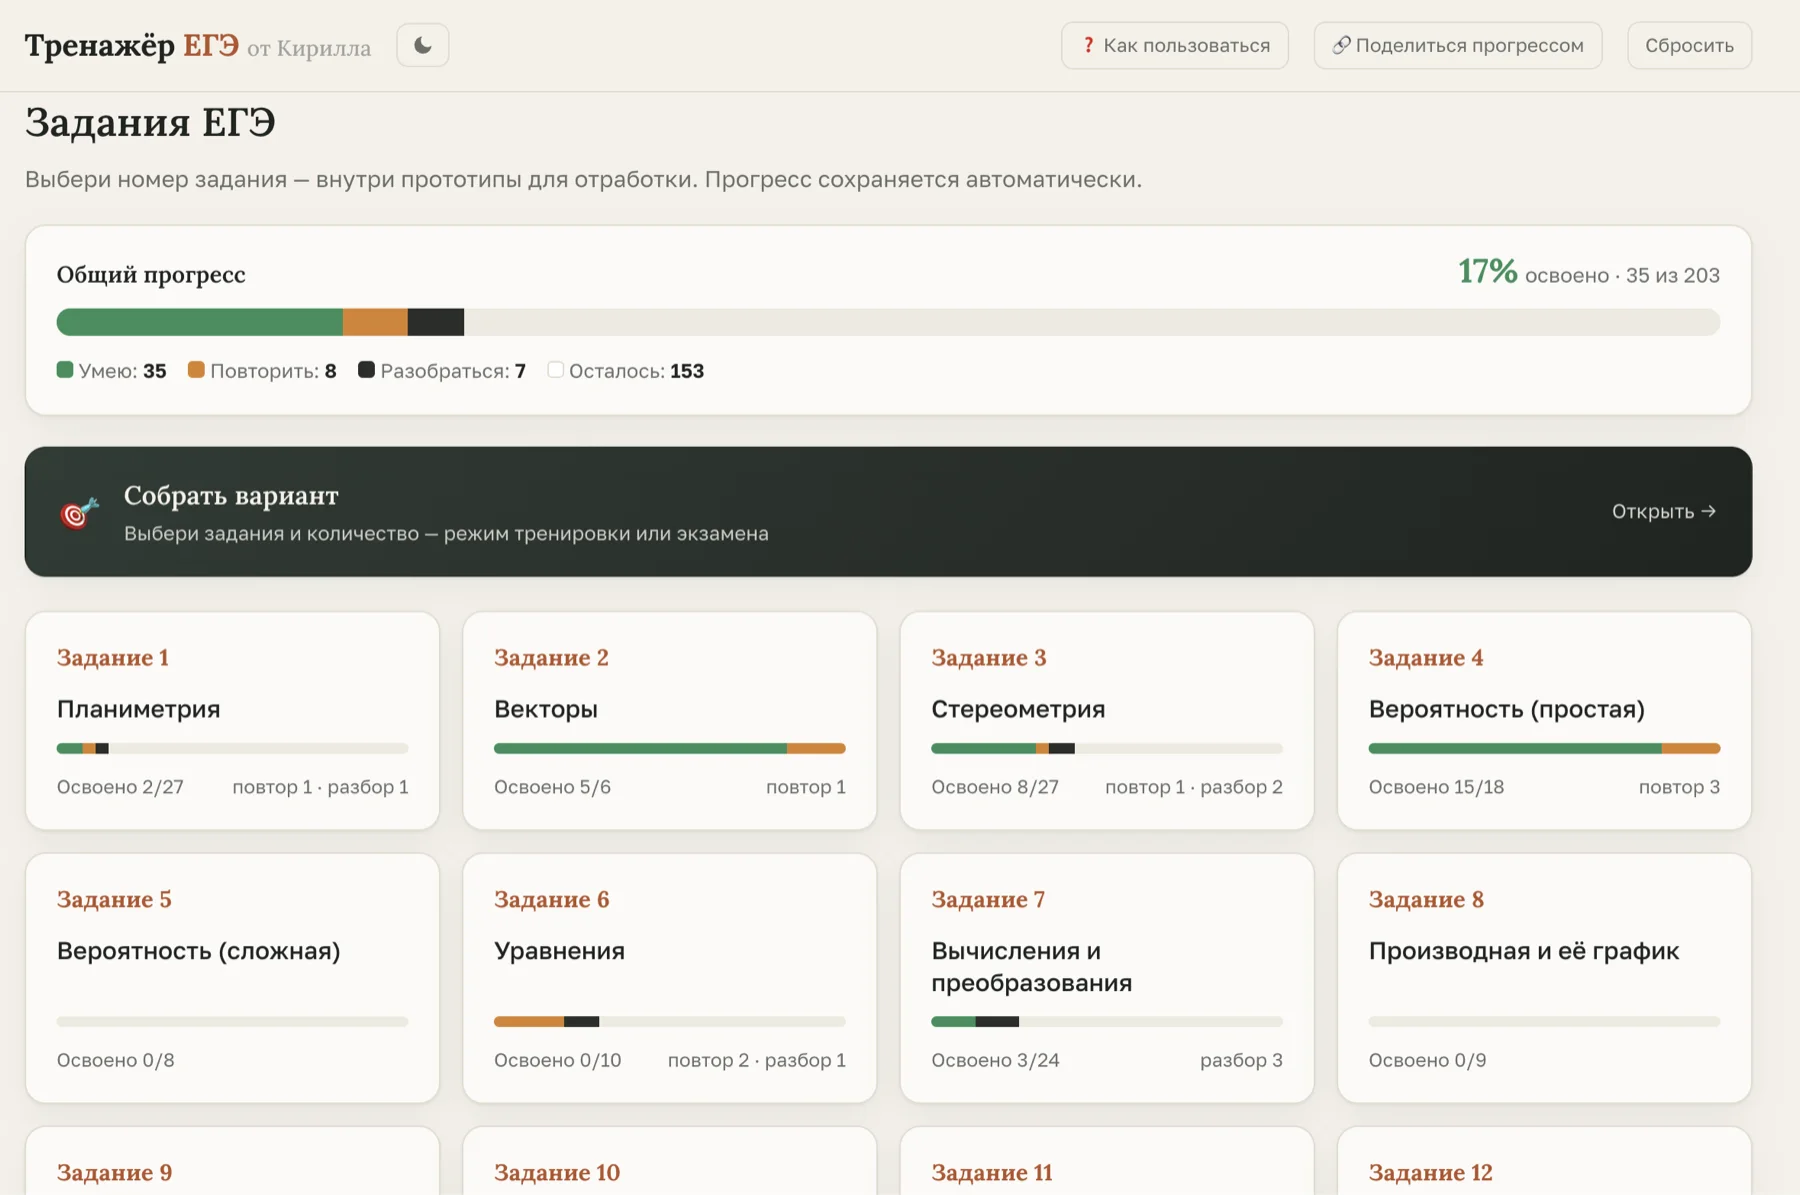
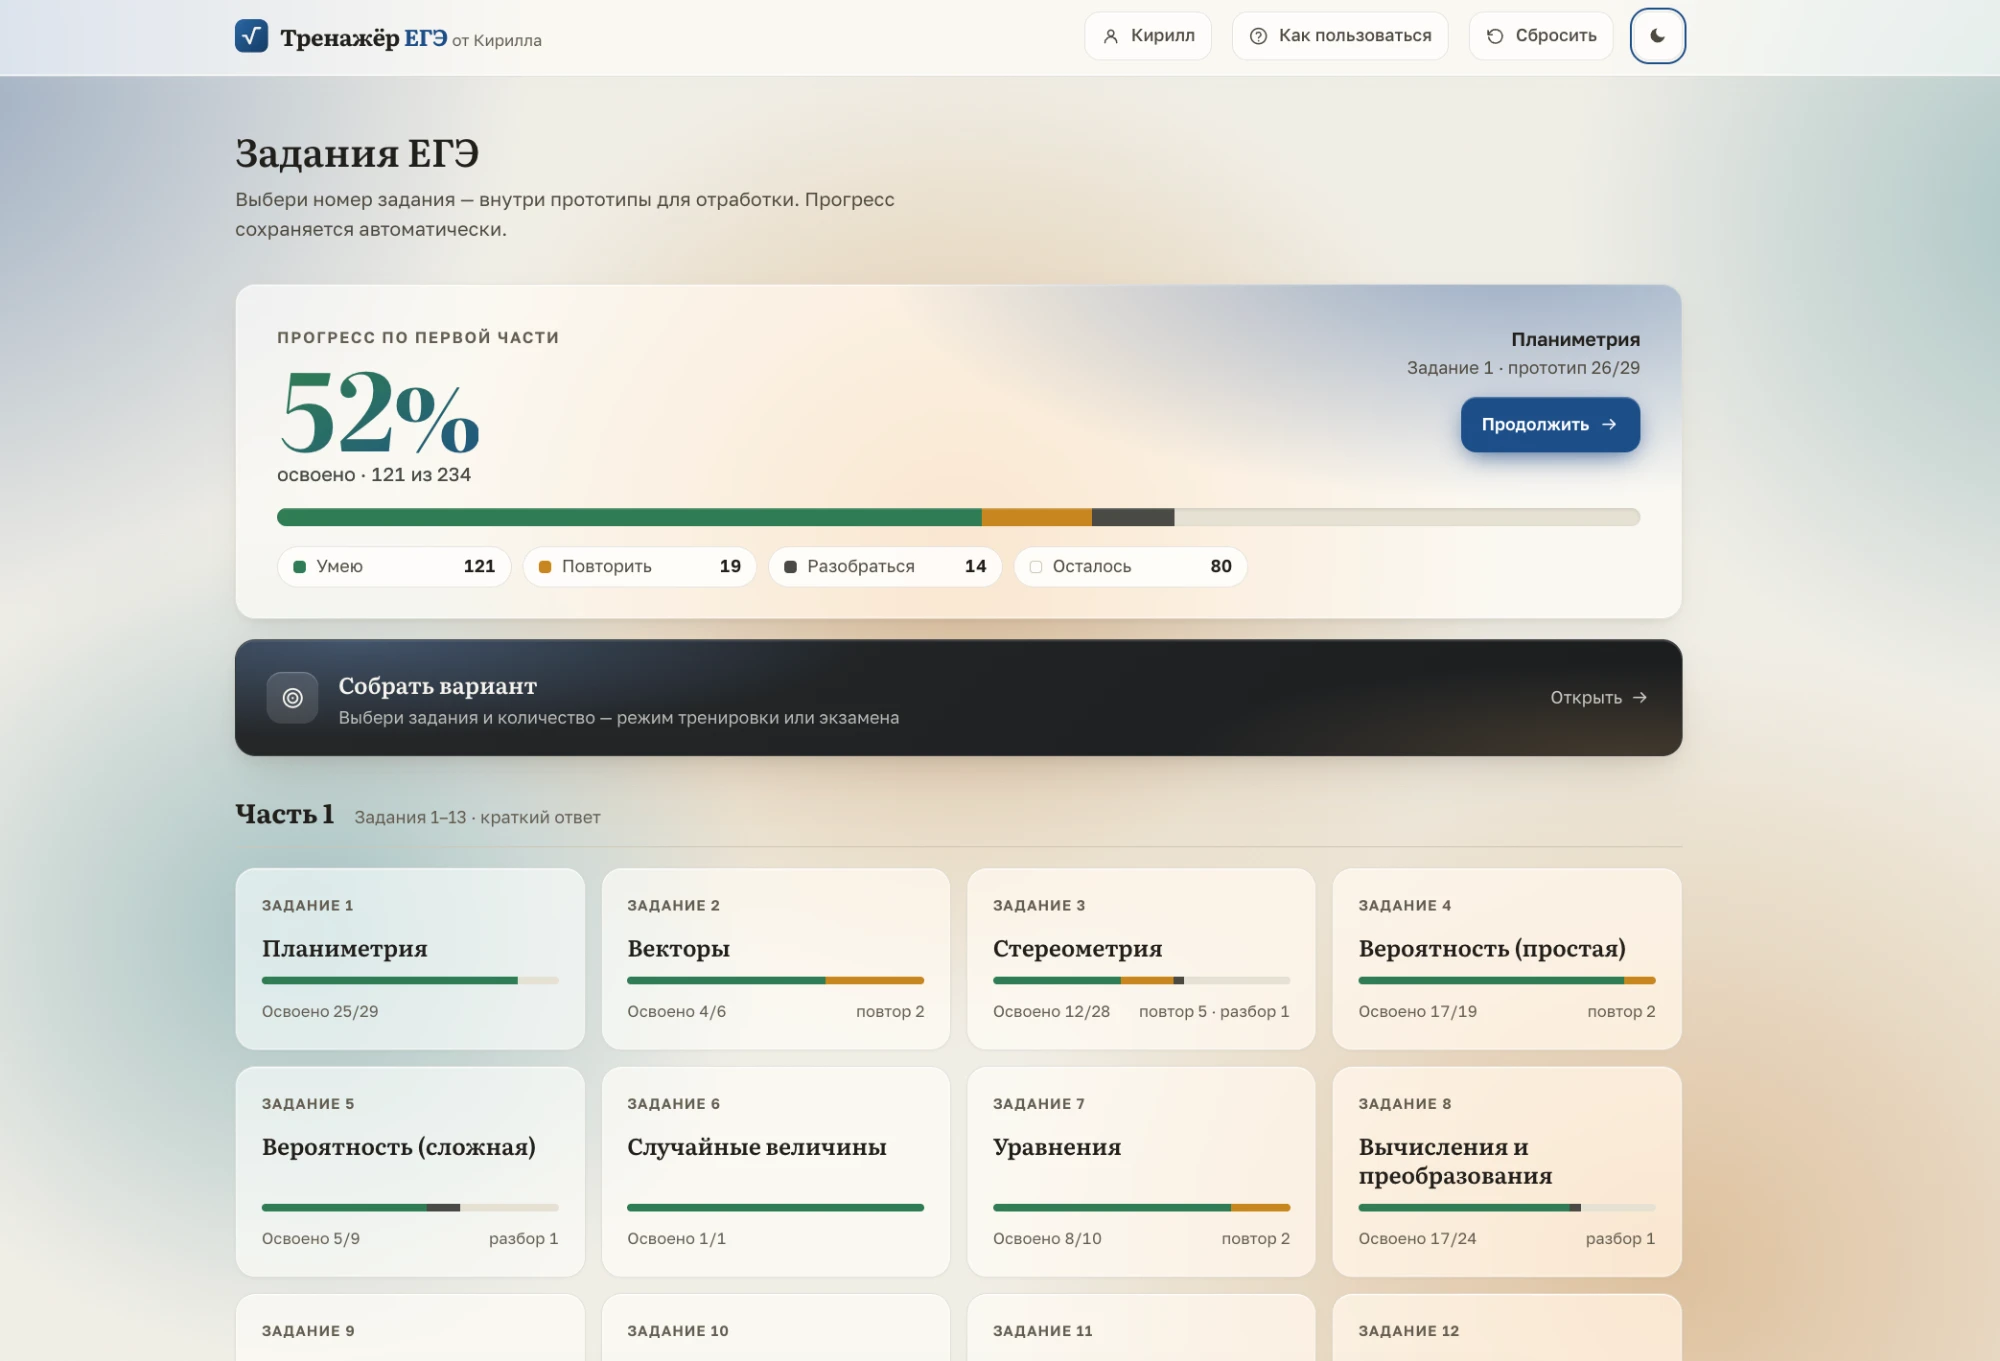
Update trainer screenshot and prototype count (234)

diff --git a/index.html b/index.html
@@ -116,7 +116,7 @@
   .tile{background:var(--surface);border:1px solid var(--line);border-radius:var(--r-panel);padding:30px;overflow:hidden}
   .tile p{color:var(--muted);margin-top:10px;font-size:16.5px}
   .tile-trainer{grid-column:span 4;padding-bottom:0;display:flex;flex-direction:column}
-  .tile-trainer .shot{margin:26px -1px 0;border-radius:var(--r-tile) var(--r-tile) 0 0;border:1px solid var(--line);border-bottom:0;overflow:hidden;flex:1;min-height:240px;max-height:330px}
+  .tile-trainer .shot{margin:26px -1px 0;border-radius:var(--r-tile) var(--r-tile) 0 0;border:1px solid var(--line);border-bottom:0;overflow:hidden;flex:1;min-height:240px;max-height:400px}
   .tile-trainer .shot img{width:100%;height:100%;object-fit:cover;object-position:top}
   .tile-chart{grid-column:span 2;display:flex;flex-direction:column}
   .bars{display:flex;align-items:flex-end;gap:10px;height:190px;margin-top:auto;padding-top:28px}
@@ -325,8 +325,8 @@
     <div class="bento">
       <div class="tile tile-trainer rv">
         <h3>Свой тренажёр по первой части</h3>
-        <p>203 прототипа заданий, которые встречаются на экзамене. Прогресс сохраняется, я вижу, что освоено, а что нужно повторить.</p>
-        <div class="shot"><img src="assets/img/trainer.webp" width="1800" height="1195" loading="lazy" alt="Экран тренажёра: задания ЕГЭ с прогрессом по каждому номеру"></div>
+        <p>234 прототипа заданий, которые встречаются на экзамене. Прогресс сохраняется, я вижу, что освоено, а что нужно повторить.</p>
+        <div class="shot"><img src="assets/img/trainer.webp" width="2000" height="1361" loading="lazy" alt="Экран тренажёра: задания ЕГЭ с прогрессом по каждому номеру"></div>
       </div>
       <div class="tile tile-chart rv">
         <h3>Пробники под учётом</h3>
